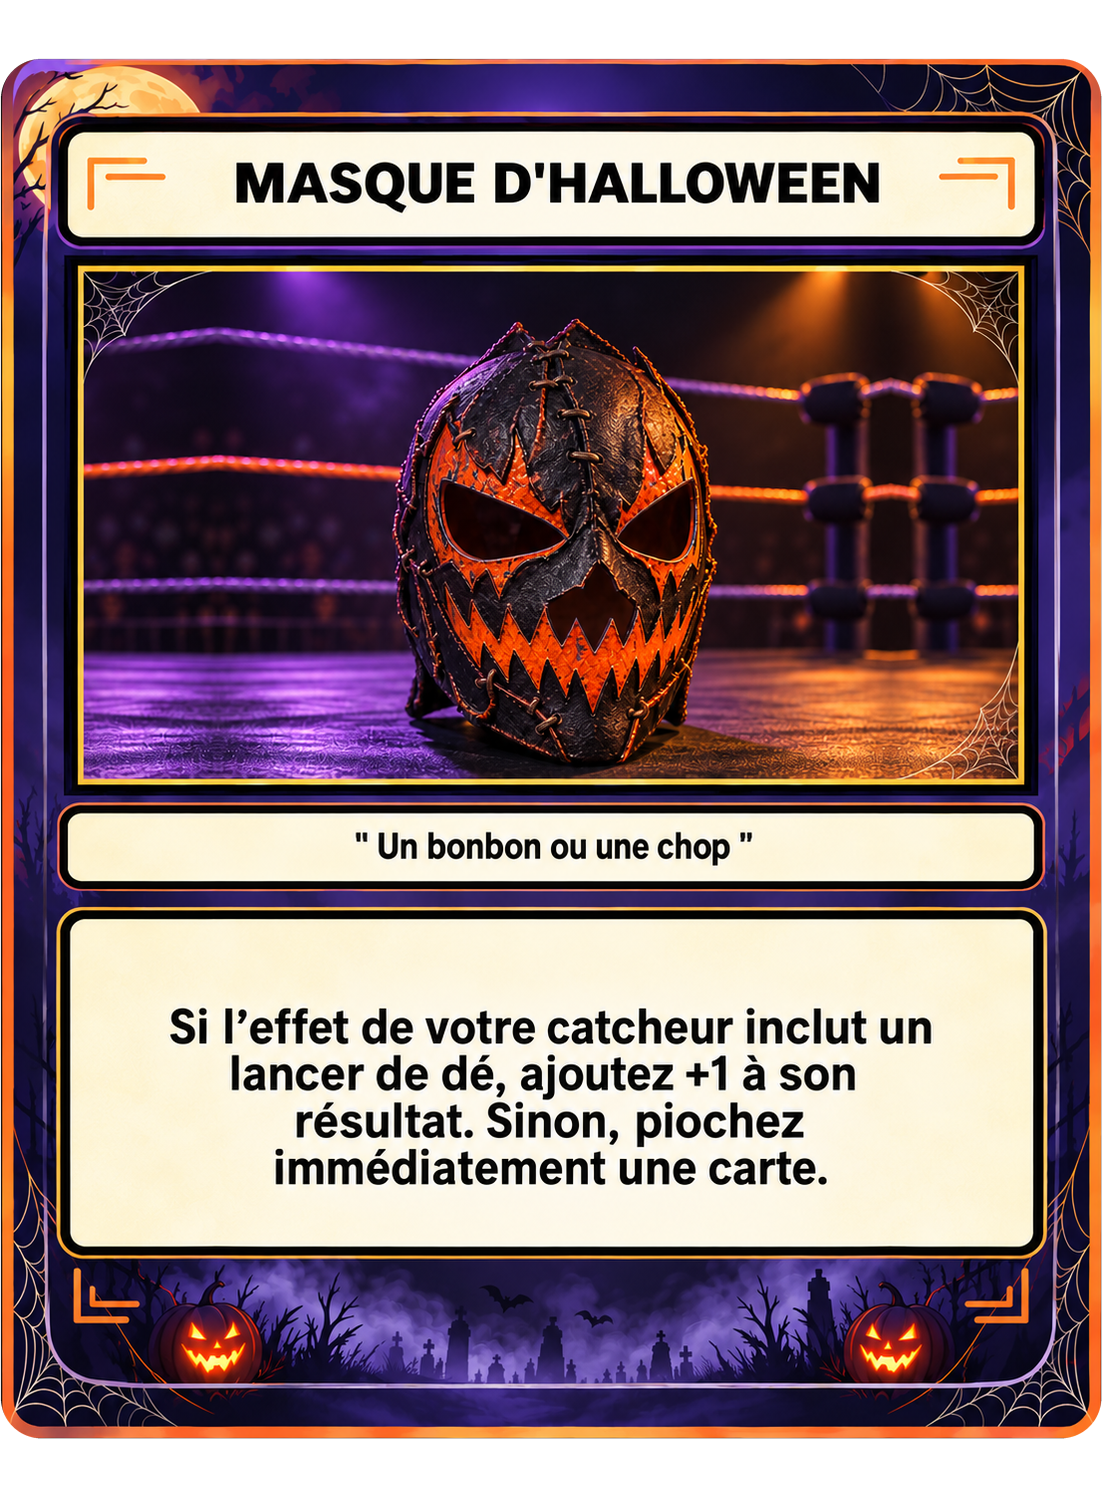
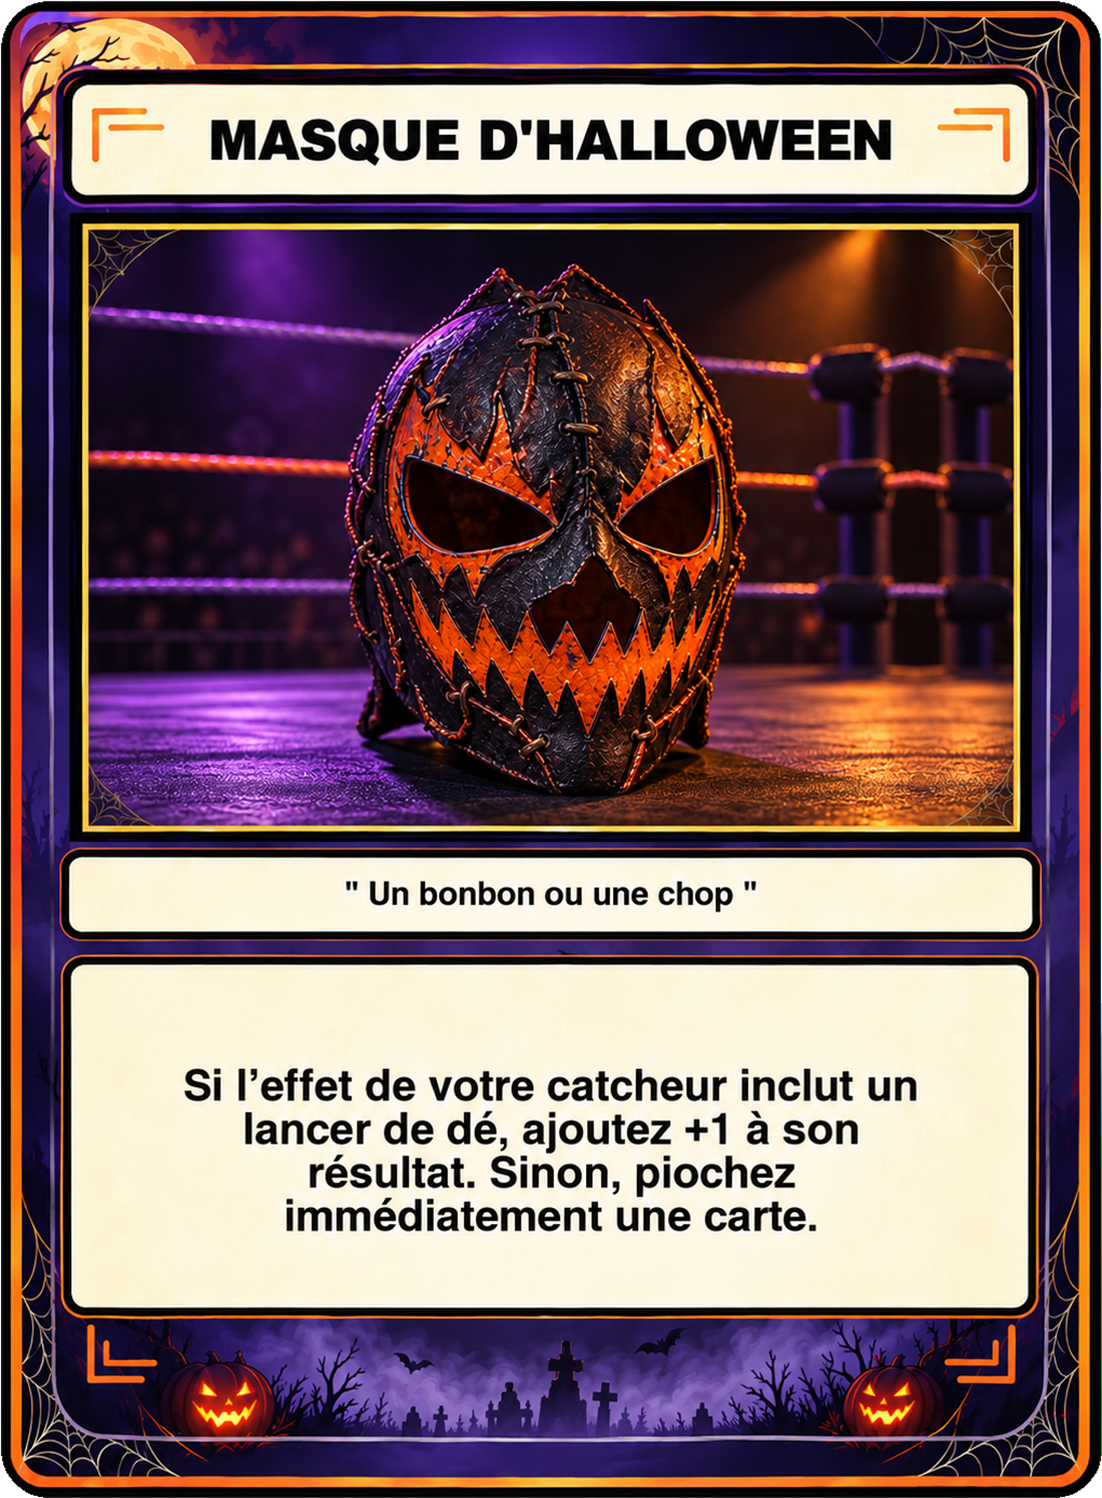
Import corrected Halloween mask artwork at standard card dimensions

diff --git a/js/game.js b/js/game.js
@@ -9097,6 +9097,7 @@ const REFRESHED_RENDER_ART=new Set([
 
 function renderArtSrc(path){
   const src=String(path||"");
+  if(src==="assets/card_renders/rare_objets_masque_halloween.png")return `${src}?art=mask-final-format-1`;
   return REFRESHED_RENDER_ART.has(src) ? `${src}?art=0212-refresh-1` : src;
 }
 
@@ -9110,14 +9111,8 @@ function cardHTML(c,attrs="",id=""){
   attrs=`data-card-id="${escapeAttr(c.id||id||"")}" ${attrs}`;
   const effectOverlay=effectOverlayHTML(c);
   if(c.renderArt){
-    // The approved mask artwork has 58/59 transparent rows around a shorter
-    // card. Crop its source viewport, then map it into the standard card frame.
-    // This preserves the supplied lettering/art; other cards keep their render.
-    const art=cardKey(c)==="rare_objets_masque_halloween"
-      ? `<svg class="full-card-art" viewBox="0 58 1102 1381" preserveAspectRatio="none" role="img" aria-label="${escapeAttr(c.name)}"><image href="${renderArtSrc(c.renderArt)}" width="1102" height="1498" /></svg>`
-      : `<img class="full-card-art" src="${renderArtSrc(c.renderArt)}" alt="${c.name}" onerror="this.closest('.game-card')?.classList.add('render-fallback');this.remove()">`;
     return `<div class="game-card rendered ${String(c.type||"").toLowerCase()} ${String(c.rarity||"").toLowerCase()}" ${attrs}>
-      ${art}
+      <img class="full-card-art" src="${renderArtSrc(c.renderArt)}" alt="${c.name}" onerror="this.closest('.game-card')?.classList.add('render-fallback');this.remove()">
       <div class="render-card-fallback">
         <b>${c.name}</b>
         <span>${displayCardType(c.type)} - ${c.rarity||"Standard"}</span>
